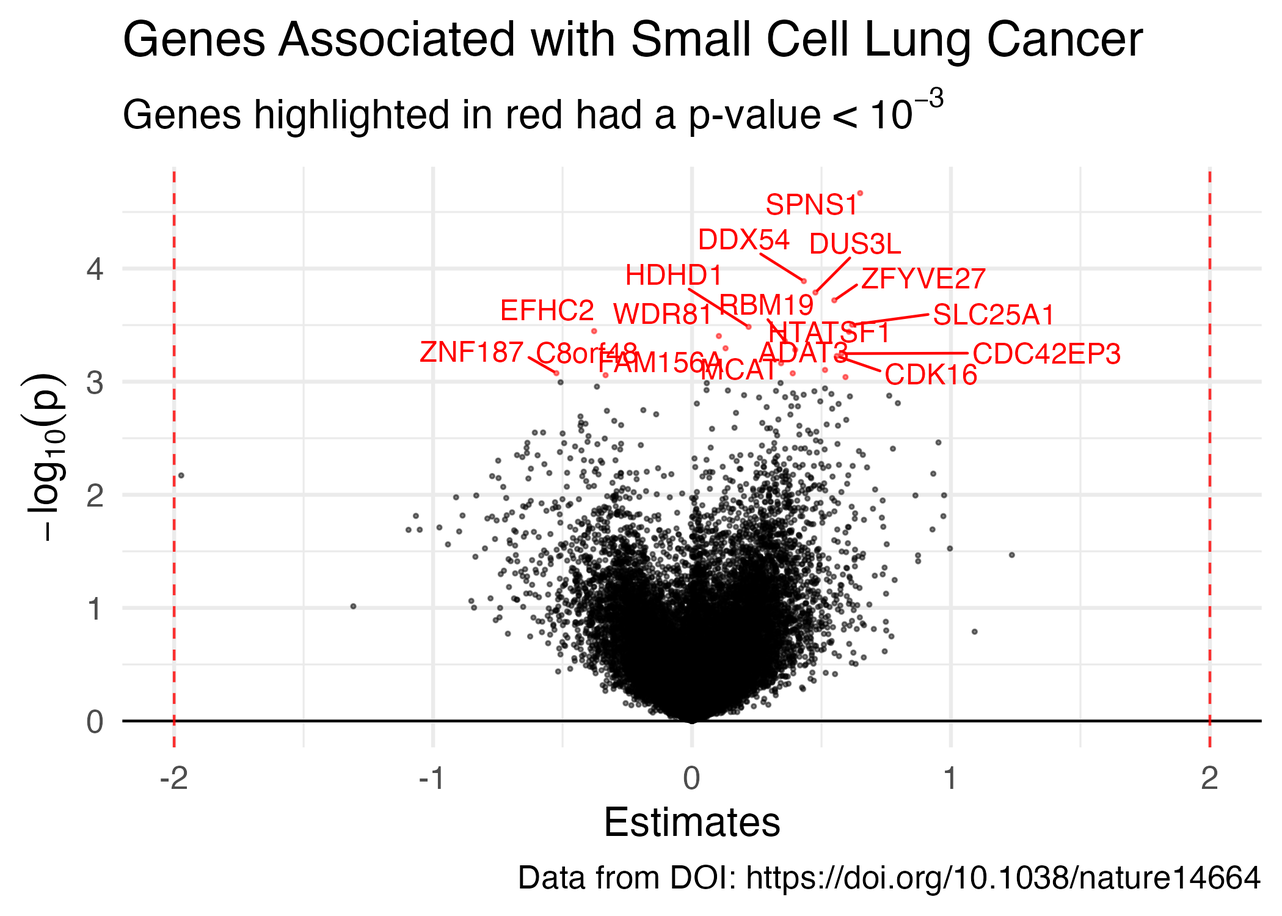
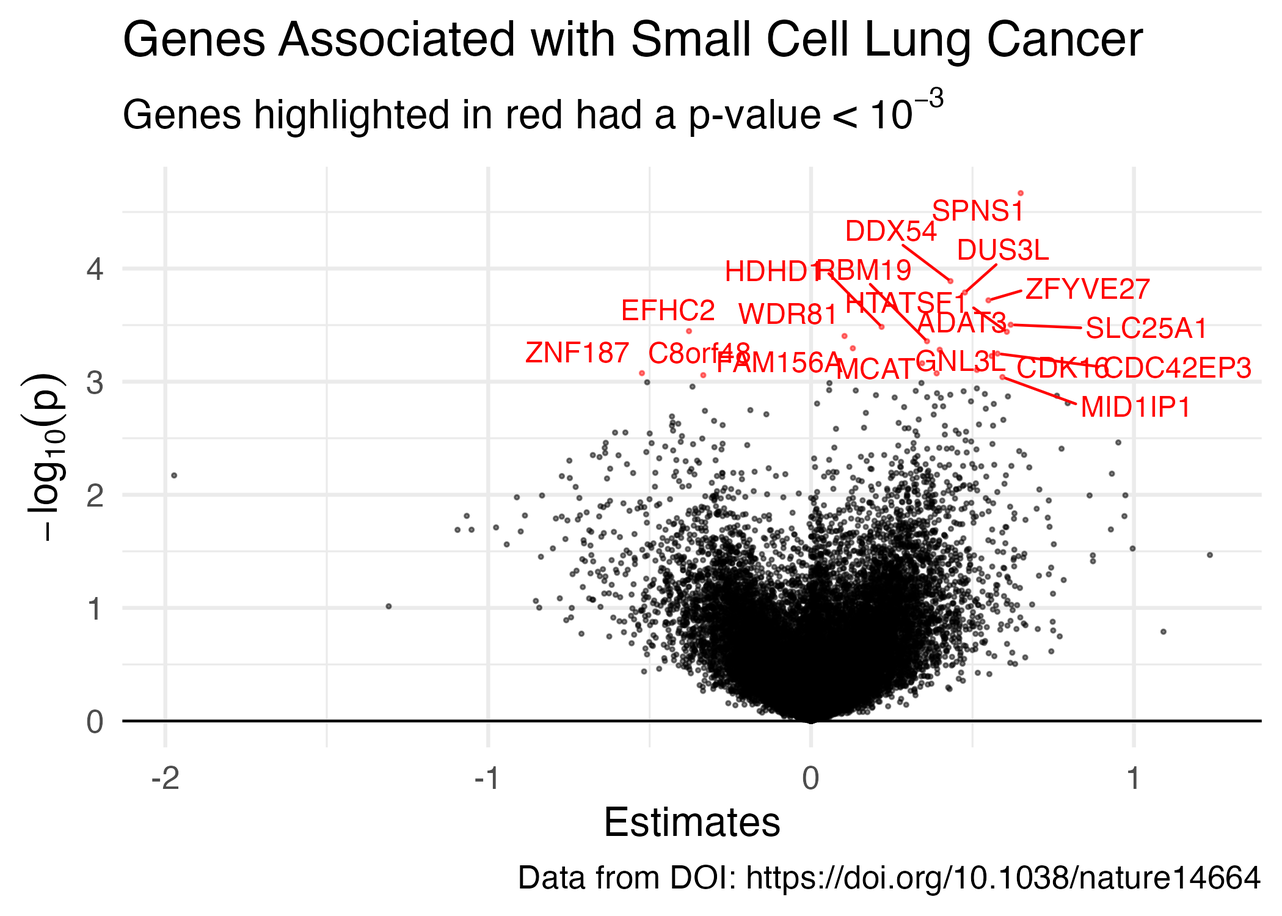
results: update rendering of 07 analysis

diff --git a/results/R/07_logistic_model.html b/results/R/07_logistic_model.html
@@ -130,7 +130,7 @@ pre > code.sourceCode > span > a:first-child::before { text-decoration: underlin
 <pre><code>here() starts at /Users/mikkelrasmussen/Library/CloudStorage/OneDrive-DanmarksTekniskeUniversitet/DTU/Bioinformatics_and_Systems_Biology/3_semester/22160 R for Bio Data Science/Project/group_13_project</code></pre>
 </div>
 <div class="sourceCode cell-code" id="cb5"><pre class="sourceCode r code-with-copy"><code class="sourceCode r"><span id="cb5-1"><a href="#cb5-1" aria-hidden="true" tabindex="-1"></a><span class="fu">library</span>(<span class="st">"broom"</span>)</span>
-<span id="cb5-2"><a href="#cb5-2" aria-hidden="true" tabindex="-1"></a><span class="fu">library</span>(<span class="st">"limma"</span>)</span></code><button title="Copy to Clipboard" class="code-copy-button"><i class="bi"></i></button></pre></div>
+<span id="cb5-2"><a href="#cb5-2" aria-hidden="true" tabindex="-1"></a><span class="fu">library</span>(<span class="st">"ggrepel"</span>)</span></code><button title="Copy to Clipboard" class="code-copy-button"><i class="bi"></i></button></pre></div>
 </div>
 </section>
 <section id="load-data" class="level2">
@@ -161,60 +161,63 @@ dbl (31644): age, survival_status, progression_free_survival_months, overall...
 <div class="cell">
 <div class="sourceCode cell-code" id="cb9"><pre class="sourceCode r code-with-copy"><code class="sourceCode r"><span id="cb9-1"><a href="#cb9-1" aria-hidden="true" tabindex="-1"></a><span class="co"># Extract the expression data</span></span>
 <span id="cb9-2"><a href="#cb9-2" aria-hidden="true" tabindex="-1"></a>expression_data <span class="ot">&lt;-</span> data <span class="sc">|&gt;</span></span>
-<span id="cb9-3"><a href="#cb9-3" aria-hidden="true" tabindex="-1"></a>  <span class="fu">select</span>(survival_status, <span class="dv">32</span><span class="sc">:</span><span class="fu">ncol</span>(data))</span>
-<span id="cb9-4"><a href="#cb9-4" aria-hidden="true" tabindex="-1"></a></span>
-<span id="cb9-5"><a href="#cb9-5" aria-hidden="true" tabindex="-1"></a><span class="co"># Log2 transform the FPKM expression data</span></span>
-<span id="cb9-6"><a href="#cb9-6" aria-hidden="true" tabindex="-1"></a>expr_log <span class="ot">&lt;-</span> expression_data <span class="sc">|&gt;</span></span>
-<span id="cb9-7"><a href="#cb9-7" aria-hidden="true" tabindex="-1"></a>  <span class="fu">mutate</span>(<span class="fu">across</span>(<span class="sc">-</span>survival_status, <span class="sc">~</span> <span class="fu">log2</span>(. <span class="sc">+</span> <span class="dv">1</span>)))</span></code><button title="Copy to Clipboard" class="code-copy-button"><i class="bi"></i></button></pre></div>
+<span id="cb9-3"><a href="#cb9-3" aria-hidden="true" tabindex="-1"></a>  <span class="fu">select</span>(sample_id, survival_status, <span class="dv">32</span><span class="sc">:</span><span class="fu">ncol</span>(data))</span></code><button title="Copy to Clipboard" class="code-copy-button"><i class="bi"></i></button></pre></div>
 </div>
 <div class="cell">
-<div class="sourceCode cell-code" id="cb10"><pre class="sourceCode r code-with-copy"><code class="sourceCode r"><span id="cb10-1"><a href="#cb10-1" aria-hidden="true" tabindex="-1"></a><span class="co"># Pivot longer</span></span>
-<span id="cb10-2"><a href="#cb10-2" aria-hidden="true" tabindex="-1"></a>expr_log_long <span class="ot">&lt;-</span> expr_log <span class="sc">|&gt;</span></span>
+<div class="sourceCode cell-code" id="cb10"><pre class="sourceCode r code-with-copy"><code class="sourceCode r"><span id="cb10-1"><a href="#cb10-1" aria-hidden="true" tabindex="-1"></a><span class="co"># Convert expression data into long format</span></span>
+<span id="cb10-2"><a href="#cb10-2" aria-hidden="true" tabindex="-1"></a>expr_long <span class="ot">&lt;-</span> expression_data <span class="sc">|&gt;</span></span>
 <span id="cb10-3"><a href="#cb10-3" aria-hidden="true" tabindex="-1"></a>  <span class="fu">pivot_longer</span>(</span>
-<span id="cb10-4"><a href="#cb10-4" aria-hidden="true" tabindex="-1"></a>    <span class="at">cols =</span> <span class="sc">-</span>survival_status,</span>
+<span id="cb10-4"><a href="#cb10-4" aria-hidden="true" tabindex="-1"></a>    <span class="at">cols =</span> <span class="sc">-</span><span class="fu">c</span>(sample_id, survival_status),</span>
 <span id="cb10-5"><a href="#cb10-5" aria-hidden="true" tabindex="-1"></a>    <span class="at">names_to =</span> <span class="st">"gene"</span>,</span>
-<span id="cb10-6"><a href="#cb10-6" aria-hidden="true" tabindex="-1"></a>    <span class="at">values_to =</span> <span class="st">"log2_expr_level"</span></span>
+<span id="cb10-6"><a href="#cb10-6" aria-hidden="true" tabindex="-1"></a>    <span class="at">values_to =</span> <span class="st">"expr_level"</span></span>
 <span id="cb10-7"><a href="#cb10-7" aria-hidden="true" tabindex="-1"></a>  )</span>
 <span id="cb10-8"><a href="#cb10-8" aria-hidden="true" tabindex="-1"></a></span>
-<span id="cb10-9"><a href="#cb10-9" aria-hidden="true" tabindex="-1"></a><span class="co"># Nest the data</span></span>
-<span id="cb10-10"><a href="#cb10-10" aria-hidden="true" tabindex="-1"></a>expr_log_long_nested <span class="ot">&lt;-</span> expr_log_long <span class="sc">|&gt;</span></span>
-<span id="cb10-11"><a href="#cb10-11" aria-hidden="true" tabindex="-1"></a>  <span class="fu">group_by</span>(gene) <span class="sc">|&gt;</span></span>
-<span id="cb10-12"><a href="#cb10-12" aria-hidden="true" tabindex="-1"></a>  <span class="fu">nest</span>() <span class="sc">|&gt;</span></span>
-<span id="cb10-13"><a href="#cb10-13" aria-hidden="true" tabindex="-1"></a>  <span class="fu">ungroup</span>()</span>
-<span id="cb10-14"><a href="#cb10-14" aria-hidden="true" tabindex="-1"></a></span>
-<span id="cb10-15"><a href="#cb10-15" aria-hidden="true" tabindex="-1"></a><span class="co"># Model each gene with a logistic regression model</span></span>
-<span id="cb10-16"><a href="#cb10-16" aria-hidden="true" tabindex="-1"></a>expr_log_long_nested <span class="ot">&lt;-</span> expr_log_long_nested <span class="sc">|&gt;</span></span>
-<span id="cb10-17"><a href="#cb10-17" aria-hidden="true" tabindex="-1"></a>  <span class="fu">group_by</span>(gene) <span class="sc">|&gt;</span></span>
-<span id="cb10-18"><a href="#cb10-18" aria-hidden="true" tabindex="-1"></a>  <span class="fu">mutate</span>(<span class="at">model_object =</span> <span class="fu">map</span>(</span>
-<span id="cb10-19"><a href="#cb10-19" aria-hidden="true" tabindex="-1"></a>    <span class="at">.x =</span> data,</span>
-<span id="cb10-20"><a href="#cb10-20" aria-hidden="true" tabindex="-1"></a>    <span class="at">.f =</span> <span class="sc">~</span> <span class="fu">lm</span>(</span>
-<span id="cb10-21"><a href="#cb10-21" aria-hidden="true" tabindex="-1"></a>      <span class="at">formula =</span> log2_expr_level <span class="sc">~</span> survival_status,</span>
-<span id="cb10-22"><a href="#cb10-22" aria-hidden="true" tabindex="-1"></a>      <span class="at">data =</span> .x</span>
-<span id="cb10-23"><a href="#cb10-23" aria-hidden="true" tabindex="-1"></a>    )</span>
-<span id="cb10-24"><a href="#cb10-24" aria-hidden="true" tabindex="-1"></a>  ))</span>
-<span id="cb10-25"><a href="#cb10-25" aria-hidden="true" tabindex="-1"></a></span>
-<span id="cb10-26"><a href="#cb10-26" aria-hidden="true" tabindex="-1"></a><span class="co"># Calculate confidence intervals</span></span>
-<span id="cb10-27"><a href="#cb10-27" aria-hidden="true" tabindex="-1"></a>expr_log_long_nested <span class="ot">&lt;-</span> expr_log_long_nested <span class="sc">|&gt;</span></span>
-<span id="cb10-28"><a href="#cb10-28" aria-hidden="true" tabindex="-1"></a>  <span class="fu">mutate</span>(<span class="at">model_object_tidy =</span> <span class="fu">map</span>(</span>
-<span id="cb10-29"><a href="#cb10-29" aria-hidden="true" tabindex="-1"></a>    <span class="at">.x =</span> model_object,</span>
-<span id="cb10-30"><a href="#cb10-30" aria-hidden="true" tabindex="-1"></a>    <span class="at">.f =</span> <span class="sc">~</span> <span class="fu">tidy</span>(</span>
-<span id="cb10-31"><a href="#cb10-31" aria-hidden="true" tabindex="-1"></a>      <span class="at">x =</span> .x,</span>
-<span id="cb10-32"><a href="#cb10-32" aria-hidden="true" tabindex="-1"></a>      <span class="at">conf.int =</span> <span class="cn">TRUE</span>,</span>
-<span id="cb10-33"><a href="#cb10-33" aria-hidden="true" tabindex="-1"></a>      <span class="at">conf.level =</span> <span class="fl">0.95</span></span>
-<span id="cb10-34"><a href="#cb10-34" aria-hidden="true" tabindex="-1"></a>    )</span>
-<span id="cb10-35"><a href="#cb10-35" aria-hidden="true" tabindex="-1"></a>  ))</span>
-<span id="cb10-36"><a href="#cb10-36" aria-hidden="true" tabindex="-1"></a></span>
-<span id="cb10-37"><a href="#cb10-37" aria-hidden="true" tabindex="-1"></a><span class="co"># Unnest</span></span>
-<span id="cb10-38"><a href="#cb10-38" aria-hidden="true" tabindex="-1"></a>expr_estimates <span class="ot">&lt;-</span> expr_log_long_nested <span class="sc">|&gt;</span></span>
-<span id="cb10-39"><a href="#cb10-39" aria-hidden="true" tabindex="-1"></a>  <span class="fu">unnest</span>(model_object_tidy) <span class="sc">|&gt;</span></span>
-<span id="cb10-40"><a href="#cb10-40" aria-hidden="true" tabindex="-1"></a>  <span class="fu">drop_na</span>(p.value)</span>
-<span id="cb10-41"><a href="#cb10-41" aria-hidden="true" tabindex="-1"></a></span>
-<span id="cb10-42"><a href="#cb10-42" aria-hidden="true" tabindex="-1"></a><span class="co">#</span></span>
-<span id="cb10-43"><a href="#cb10-43" aria-hidden="true" tabindex="-1"></a>expr_estimates <span class="ot">&lt;-</span> expr_estimates <span class="sc">|&gt;</span></span>
-<span id="cb10-44"><a href="#cb10-44" aria-hidden="true" tabindex="-1"></a>  <span class="fu">filter</span>(term <span class="sc">==</span> <span class="st">"survival_status"</span>) <span class="sc">|&gt;</span></span>
-<span id="cb10-45"><a href="#cb10-45" aria-hidden="true" tabindex="-1"></a>  <span class="fu">select</span>(gene, p.value, estimate, conf.low, conf.high) <span class="sc">|&gt;</span></span>
-<span id="cb10-46"><a href="#cb10-46" aria-hidden="true" tabindex="-1"></a>  <span class="fu">ungroup</span>()</span>
-<span id="cb10-47"><a href="#cb10-47" aria-hidden="true" tabindex="-1"></a>expr_estimates</span></code><button title="Copy to Clipboard" class="code-copy-button"><i class="bi"></i></button></pre></div>
+<span id="cb10-9"><a href="#cb10-9" aria-hidden="true" tabindex="-1"></a><span class="co"># Log2 transform data</span></span>
+<span id="cb10-10"><a href="#cb10-10" aria-hidden="true" tabindex="-1"></a>expr_log_long <span class="ot">&lt;-</span> expr_long <span class="sc">|&gt;</span></span>
+<span id="cb10-11"><a href="#cb10-11" aria-hidden="true" tabindex="-1"></a>  <span class="fu">mutate</span>(</span>
+<span id="cb10-12"><a href="#cb10-12" aria-hidden="true" tabindex="-1"></a>    <span class="at">log2_expr_level =</span> <span class="fu">log2</span>(expr_level <span class="sc">+</span> <span class="dv">1</span>)</span>
+<span id="cb10-13"><a href="#cb10-13" aria-hidden="true" tabindex="-1"></a>  )</span></code><button title="Copy to Clipboard" class="code-copy-button"><i class="bi"></i></button></pre></div>
+</div>
+<div class="cell">
+<div class="sourceCode cell-code" id="cb11"><pre class="sourceCode r code-with-copy"><code class="sourceCode r"><span id="cb11-1"><a href="#cb11-1" aria-hidden="true" tabindex="-1"></a><span class="co"># Nest the data</span></span>
+<span id="cb11-2"><a href="#cb11-2" aria-hidden="true" tabindex="-1"></a>expr_log_long_nested <span class="ot">&lt;-</span> expr_log_long <span class="sc">|&gt;</span></span>
+<span id="cb11-3"><a href="#cb11-3" aria-hidden="true" tabindex="-1"></a>  <span class="fu">group_by</span>(gene) <span class="sc">|&gt;</span></span>
+<span id="cb11-4"><a href="#cb11-4" aria-hidden="true" tabindex="-1"></a>  <span class="fu">nest</span>() <span class="sc">|&gt;</span></span>
+<span id="cb11-5"><a href="#cb11-5" aria-hidden="true" tabindex="-1"></a>  <span class="fu">ungroup</span>()</span>
+<span id="cb11-6"><a href="#cb11-6" aria-hidden="true" tabindex="-1"></a></span>
+<span id="cb11-7"><a href="#cb11-7" aria-hidden="true" tabindex="-1"></a><span class="co"># Model each gene with a logistic regression model</span></span>
+<span id="cb11-8"><a href="#cb11-8" aria-hidden="true" tabindex="-1"></a>expr_log_long_nested <span class="ot">&lt;-</span> expr_log_long_nested <span class="sc">|&gt;</span></span>
+<span id="cb11-9"><a href="#cb11-9" aria-hidden="true" tabindex="-1"></a>  <span class="fu">group_by</span>(gene) <span class="sc">|&gt;</span></span>
+<span id="cb11-10"><a href="#cb11-10" aria-hidden="true" tabindex="-1"></a>  <span class="fu">mutate</span>(<span class="at">model_object =</span> <span class="fu">map</span>(</span>
+<span id="cb11-11"><a href="#cb11-11" aria-hidden="true" tabindex="-1"></a>    <span class="at">.x =</span> data,</span>
+<span id="cb11-12"><a href="#cb11-12" aria-hidden="true" tabindex="-1"></a>    <span class="at">.f =</span> <span class="sc">~</span> <span class="fu">lm</span>(</span>
+<span id="cb11-13"><a href="#cb11-13" aria-hidden="true" tabindex="-1"></a>      <span class="at">formula =</span> log2_expr_level <span class="sc">~</span> survival_status,</span>
+<span id="cb11-14"><a href="#cb11-14" aria-hidden="true" tabindex="-1"></a>      <span class="at">data =</span> .x</span>
+<span id="cb11-15"><a href="#cb11-15" aria-hidden="true" tabindex="-1"></a>    )</span>
+<span id="cb11-16"><a href="#cb11-16" aria-hidden="true" tabindex="-1"></a>  ))</span>
+<span id="cb11-17"><a href="#cb11-17" aria-hidden="true" tabindex="-1"></a></span>
+<span id="cb11-18"><a href="#cb11-18" aria-hidden="true" tabindex="-1"></a><span class="co"># Calculate confidence intervals</span></span>
+<span id="cb11-19"><a href="#cb11-19" aria-hidden="true" tabindex="-1"></a>expr_log_long_nested <span class="ot">&lt;-</span> expr_log_long_nested <span class="sc">|&gt;</span></span>
+<span id="cb11-20"><a href="#cb11-20" aria-hidden="true" tabindex="-1"></a>  <span class="fu">mutate</span>(<span class="at">model_object_tidy =</span> <span class="fu">map</span>(</span>
+<span id="cb11-21"><a href="#cb11-21" aria-hidden="true" tabindex="-1"></a>    <span class="at">.x =</span> model_object,</span>
+<span id="cb11-22"><a href="#cb11-22" aria-hidden="true" tabindex="-1"></a>    <span class="at">.f =</span> <span class="sc">~</span> <span class="fu">tidy</span>(</span>
+<span id="cb11-23"><a href="#cb11-23" aria-hidden="true" tabindex="-1"></a>      <span class="at">x =</span> .x,</span>
+<span id="cb11-24"><a href="#cb11-24" aria-hidden="true" tabindex="-1"></a>      <span class="at">conf.int =</span> <span class="cn">TRUE</span>,</span>
+<span id="cb11-25"><a href="#cb11-25" aria-hidden="true" tabindex="-1"></a>      <span class="at">conf.level =</span> <span class="fl">0.95</span></span>
+<span id="cb11-26"><a href="#cb11-26" aria-hidden="true" tabindex="-1"></a>    )</span>
+<span id="cb11-27"><a href="#cb11-27" aria-hidden="true" tabindex="-1"></a>  ))</span>
+<span id="cb11-28"><a href="#cb11-28" aria-hidden="true" tabindex="-1"></a></span>
+<span id="cb11-29"><a href="#cb11-29" aria-hidden="true" tabindex="-1"></a><span class="co"># Unnest the data</span></span>
+<span id="cb11-30"><a href="#cb11-30" aria-hidden="true" tabindex="-1"></a>expr_estimates <span class="ot">&lt;-</span> expr_log_long_nested <span class="sc">|&gt;</span></span>
+<span id="cb11-31"><a href="#cb11-31" aria-hidden="true" tabindex="-1"></a>  <span class="fu">unnest</span>(model_object_tidy) <span class="sc">|&gt;</span></span>
+<span id="cb11-32"><a href="#cb11-32" aria-hidden="true" tabindex="-1"></a>  <span class="fu">drop_na</span>(p.value)</span>
+<span id="cb11-33"><a href="#cb11-33" aria-hidden="true" tabindex="-1"></a></span>
+<span id="cb11-34"><a href="#cb11-34" aria-hidden="true" tabindex="-1"></a><span class="co"># Extract columns of</span></span>
+<span id="cb11-35"><a href="#cb11-35" aria-hidden="true" tabindex="-1"></a>expr_estimates <span class="ot">&lt;-</span> expr_estimates <span class="sc">|&gt;</span></span>
+<span id="cb11-36"><a href="#cb11-36" aria-hidden="true" tabindex="-1"></a>  <span class="fu">filter</span>(term <span class="sc">==</span> <span class="st">"survival_status"</span>) <span class="sc">|&gt;</span></span>
+<span id="cb11-37"><a href="#cb11-37" aria-hidden="true" tabindex="-1"></a>  <span class="fu">select</span>(gene, p.value, estimate, conf.low, conf.high) <span class="sc">|&gt;</span></span>
+<span id="cb11-38"><a href="#cb11-38" aria-hidden="true" tabindex="-1"></a>  <span class="fu">ungroup</span>()</span>
+<span id="cb11-39"><a href="#cb11-39" aria-hidden="true" tabindex="-1"></a>expr_estimates</span></code><button title="Copy to Clipboard" class="code-copy-button"><i class="bi"></i></button></pre></div>
 <div class="cell-output cell-output-stdout">
 <pre><code># A tibble: 31,462 × 5
    gene               p.value estimate conf.low conf.high
@@ -231,87 +234,90 @@ dbl (31644): age, survival_status, progression_free_survival_months, overall...
 10 A4GALT_NM_017436     0.246  0.244   -0.172      0.659 
 # ℹ 31,452 more rows</code></pre>
 </div>
-<div class="sourceCode cell-code" id="cb12"><pre class="sourceCode r code-with-copy"><code class="sourceCode r"><span id="cb12-1"><a href="#cb12-1" aria-hidden="true" tabindex="-1"></a>expr_estimates <span class="ot">&lt;-</span> expr_estimates <span class="sc">|&gt;</span></span>
-<span id="cb12-2"><a href="#cb12-2" aria-hidden="true" tabindex="-1"></a>  <span class="fu">mutate</span>(</span>
-<span id="cb12-3"><a href="#cb12-3" aria-hidden="true" tabindex="-1"></a>    <span class="co"># q.value = p.adjust(p.value),</span></span>
-<span id="cb12-4"><a href="#cb12-4" aria-hidden="true" tabindex="-1"></a>    <span class="at">is_significant =</span> <span class="fu">case_when</span>(</span>
-<span id="cb12-5"><a href="#cb12-5" aria-hidden="true" tabindex="-1"></a>      p.value <span class="sc">&lt;=</span> <span class="dv">10</span><span class="sc">^</span>(<span class="sc">-</span><span class="dv">3</span>) <span class="sc">~</span> <span class="st">"yes"</span>,</span>
-<span id="cb12-6"><a href="#cb12-6" aria-hidden="true" tabindex="-1"></a>      p.value <span class="sc">&gt;</span> <span class="dv">10</span><span class="sc">^</span>(<span class="sc">-</span><span class="dv">3</span>) <span class="sc">~</span> <span class="st">"no"</span></span>
-<span id="cb12-7"><a href="#cb12-7" aria-hidden="true" tabindex="-1"></a>    )</span>
-<span id="cb12-8"><a href="#cb12-8" aria-hidden="true" tabindex="-1"></a>  )</span>
-<span id="cb12-9"><a href="#cb12-9" aria-hidden="true" tabindex="-1"></a></span>
-<span id="cb12-10"><a href="#cb12-10" aria-hidden="true" tabindex="-1"></a>expr_estimates <span class="sc">|&gt;</span></span>
-<span id="cb12-11"><a href="#cb12-11" aria-hidden="true" tabindex="-1"></a>  <span class="fu">filter</span>(is_significant <span class="sc">==</span> <span class="st">"yes"</span>) <span class="sc">|&gt;</span></span>
-<span id="cb12-12"><a href="#cb12-12" aria-hidden="true" tabindex="-1"></a>  <span class="fu">select</span>(gene, p.value) <span class="sc">|&gt;</span></span>
-<span id="cb12-13"><a href="#cb12-13" aria-hidden="true" tabindex="-1"></a>  <span class="fu">View</span>()</span></code><button title="Copy to Clipboard" class="code-copy-button"><i class="bi"></i></button></pre></div>
+<div class="sourceCode cell-code" id="cb13"><pre class="sourceCode r code-with-copy"><code class="sourceCode r"><span id="cb13-1"><a href="#cb13-1" aria-hidden="true" tabindex="-1"></a>expr_estimates <span class="ot">&lt;-</span> expr_estimates <span class="sc">|&gt;</span></span>
+<span id="cb13-2"><a href="#cb13-2" aria-hidden="true" tabindex="-1"></a>  <span class="fu">mutate</span>(</span>
+<span id="cb13-3"><a href="#cb13-3" aria-hidden="true" tabindex="-1"></a>    <span class="at">q.value =</span> <span class="fu">p.adjust</span>(p.value),</span>
+<span id="cb13-4"><a href="#cb13-4" aria-hidden="true" tabindex="-1"></a>    <span class="at">is_significant =</span> <span class="fu">case_when</span>(</span>
+<span id="cb13-5"><a href="#cb13-5" aria-hidden="true" tabindex="-1"></a>      p.value <span class="sc">&lt;=</span> <span class="dv">10</span><span class="sc">^</span>(<span class="sc">-</span><span class="dv">3</span>) <span class="sc">~</span> <span class="st">"yes"</span>,</span>
+<span id="cb13-6"><a href="#cb13-6" aria-hidden="true" tabindex="-1"></a>      p.value <span class="sc">&gt;</span> <span class="dv">10</span><span class="sc">^</span>(<span class="sc">-</span><span class="dv">3</span>) <span class="sc">~</span> <span class="st">"no"</span></span>
+<span id="cb13-7"><a href="#cb13-7" aria-hidden="true" tabindex="-1"></a>    )</span>
+<span id="cb13-8"><a href="#cb13-8" aria-hidden="true" tabindex="-1"></a>  )</span>
+<span id="cb13-9"><a href="#cb13-9" aria-hidden="true" tabindex="-1"></a></span>
+<span id="cb13-10"><a href="#cb13-10" aria-hidden="true" tabindex="-1"></a>expr_estimates <span class="sc">|&gt;</span></span>
+<span id="cb13-11"><a href="#cb13-11" aria-hidden="true" tabindex="-1"></a>  <span class="fu">filter</span>(is_significant <span class="sc">==</span> <span class="st">"yes"</span>) <span class="sc">|&gt;</span></span>
+<span id="cb13-12"><a href="#cb13-12" aria-hidden="true" tabindex="-1"></a>  <span class="fu">select</span>(gene, p.value) <span class="sc">|&gt;</span></span>
+<span id="cb13-13"><a href="#cb13-13" aria-hidden="true" tabindex="-1"></a>  <span class="fu">View</span>()</span></code><button title="Copy to Clipboard" class="code-copy-button"><i class="bi"></i></button></pre></div>
 </div>
 <div class="cell">
-<div class="sourceCode cell-code" id="cb13"><pre class="sourceCode r code-with-copy"><code class="sourceCode r"><span id="cb13-1"><a href="#cb13-1" aria-hidden="true" tabindex="-1"></a>pl1 <span class="ot">&lt;-</span> expr_estimates <span class="sc">|&gt;</span></span>
-<span id="cb13-2"><a href="#cb13-2" aria-hidden="true" tabindex="-1"></a>  <span class="fu">filter</span>(is_significant <span class="sc">==</span> <span class="st">"yes"</span>) <span class="sc">|&gt;</span></span>
-<span id="cb13-3"><a href="#cb13-3" aria-hidden="true" tabindex="-1"></a>  <span class="fu">ggplot</span>(<span class="fu">aes</span>(</span>
-<span id="cb13-4"><a href="#cb13-4" aria-hidden="true" tabindex="-1"></a>    <span class="at">x =</span> estimate,</span>
-<span id="cb13-5"><a href="#cb13-5" aria-hidden="true" tabindex="-1"></a>    <span class="at">y =</span> <span class="fu">fct_reorder</span>(gene, estimate),</span>
-<span id="cb13-6"><a href="#cb13-6" aria-hidden="true" tabindex="-1"></a>    <span class="at">xmin =</span> conf.low,</span>
-<span id="cb13-7"><a href="#cb13-7" aria-hidden="true" tabindex="-1"></a>    <span class="at">xmax =</span> conf.high</span>
-<span id="cb13-8"><a href="#cb13-8" aria-hidden="true" tabindex="-1"></a>  )) <span class="sc">+</span></span>
-<span id="cb13-9"><a href="#cb13-9" aria-hidden="true" tabindex="-1"></a>  <span class="fu">geom_vline</span>(<span class="at">xintercept =</span> <span class="dv">0</span>) <span class="sc">+</span></span>
-<span id="cb13-10"><a href="#cb13-10" aria-hidden="true" tabindex="-1"></a>  <span class="fu">geom_errorbarh</span>() <span class="sc">+</span></span>
-<span id="cb13-11"><a href="#cb13-11" aria-hidden="true" tabindex="-1"></a>  <span class="fu">geom_point</span>() <span class="sc">+</span></span>
-<span id="cb13-12"><a href="#cb13-12" aria-hidden="true" tabindex="-1"></a>  <span class="fu">theme_minimal</span>(<span class="at">base_size =</span> <span class="dv">16</span>) <span class="sc">+</span></span>
-<span id="cb13-13"><a href="#cb13-13" aria-hidden="true" tabindex="-1"></a>  <span class="fu">labs</span>(</span>
-<span id="cb13-14"><a href="#cb13-14" aria-hidden="true" tabindex="-1"></a>    <span class="at">x =</span> <span class="st">"Estimates (95%CIs)"</span>,</span>
-<span id="cb13-15"><a href="#cb13-15" aria-hidden="true" tabindex="-1"></a>    <span class="at">y =</span> <span class="st">""</span>,</span>
-<span id="cb13-16"><a href="#cb13-16" aria-hidden="true" tabindex="-1"></a>    <span class="at">title =</span> <span class="st">"Genes Associated with Small Cell Lung Cancer"</span>,</span>
-<span id="cb13-17"><a href="#cb13-17" aria-hidden="true" tabindex="-1"></a>    <span class="at">caption =</span> <span class="st">"Data from DOI:https://doi.org/10.1038/nature14664"</span></span>
-<span id="cb13-18"><a href="#cb13-18" aria-hidden="true" tabindex="-1"></a>  )</span>
-<span id="cb13-19"><a href="#cb13-19" aria-hidden="true" tabindex="-1"></a>pl1</span></code><button title="Copy to Clipboard" class="code-copy-button"><i class="bi"></i></button></pre></div>
+<div class="sourceCode cell-code" id="cb14"><pre class="sourceCode r code-with-copy"><code class="sourceCode r"><span id="cb14-1"><a href="#cb14-1" aria-hidden="true" tabindex="-1"></a>pl1 <span class="ot">&lt;-</span> expr_estimates <span class="sc">|&gt;</span></span>
+<span id="cb14-2"><a href="#cb14-2" aria-hidden="true" tabindex="-1"></a>  <span class="fu">filter</span>(is_significant <span class="sc">==</span> <span class="st">"yes"</span>) <span class="sc">|&gt;</span></span>
+<span id="cb14-3"><a href="#cb14-3" aria-hidden="true" tabindex="-1"></a>  <span class="fu">mutate</span>(</span>
+<span id="cb14-4"><a href="#cb14-4" aria-hidden="true" tabindex="-1"></a>    <span class="at">gene =</span> <span class="fu">str_remove_all</span>(gene, <span class="st">"_NM_.*"</span>)</span>
+<span id="cb14-5"><a href="#cb14-5" aria-hidden="true" tabindex="-1"></a>  ) <span class="sc">|&gt;</span></span>
+<span id="cb14-6"><a href="#cb14-6" aria-hidden="true" tabindex="-1"></a>  <span class="fu">ggplot</span>(<span class="fu">aes</span>(</span>
+<span id="cb14-7"><a href="#cb14-7" aria-hidden="true" tabindex="-1"></a>    <span class="at">x =</span> estimate,</span>
+<span id="cb14-8"><a href="#cb14-8" aria-hidden="true" tabindex="-1"></a>    <span class="at">y =</span> <span class="fu">fct_reorder</span>(gene, estimate),</span>
+<span id="cb14-9"><a href="#cb14-9" aria-hidden="true" tabindex="-1"></a>    <span class="at">xmin =</span> conf.low,</span>
+<span id="cb14-10"><a href="#cb14-10" aria-hidden="true" tabindex="-1"></a>    <span class="at">xmax =</span> conf.high</span>
+<span id="cb14-11"><a href="#cb14-11" aria-hidden="true" tabindex="-1"></a>  )) <span class="sc">+</span></span>
+<span id="cb14-12"><a href="#cb14-12" aria-hidden="true" tabindex="-1"></a>  <span class="fu">geom_vline</span>(<span class="at">xintercept =</span> <span class="dv">0</span>) <span class="sc">+</span></span>
+<span id="cb14-13"><a href="#cb14-13" aria-hidden="true" tabindex="-1"></a>  <span class="fu">geom_errorbarh</span>() <span class="sc">+</span></span>
+<span id="cb14-14"><a href="#cb14-14" aria-hidden="true" tabindex="-1"></a>  <span class="fu">geom_point</span>() <span class="sc">+</span></span>
+<span id="cb14-15"><a href="#cb14-15" aria-hidden="true" tabindex="-1"></a>  <span class="fu">theme_minimal</span>(<span class="at">base_size =</span> <span class="dv">16</span>) <span class="sc">+</span></span>
+<span id="cb14-16"><a href="#cb14-16" aria-hidden="true" tabindex="-1"></a>  <span class="fu">labs</span>(</span>
+<span id="cb14-17"><a href="#cb14-17" aria-hidden="true" tabindex="-1"></a>    <span class="at">x =</span> <span class="st">"Estimates (95%CIs)"</span>,</span>
+<span id="cb14-18"><a href="#cb14-18" aria-hidden="true" tabindex="-1"></a>    <span class="at">y =</span> <span class="st">""</span>,</span>
+<span id="cb14-19"><a href="#cb14-19" aria-hidden="true" tabindex="-1"></a>    <span class="at">title =</span> <span class="st">"Genes Associated with Small Cell Lung Cancer"</span>,</span>
+<span id="cb14-20"><a href="#cb14-20" aria-hidden="true" tabindex="-1"></a>    <span class="at">caption =</span> <span class="st">"Data from DOI:https://doi.org/10.1038/nature14664"</span></span>
+<span id="cb14-21"><a href="#cb14-21" aria-hidden="true" tabindex="-1"></a>  )</span>
+<span id="cb14-22"><a href="#cb14-22" aria-hidden="true" tabindex="-1"></a>pl1</span></code><button title="Copy to Clipboard" class="code-copy-button"><i class="bi"></i></button></pre></div>
 <div class="cell-output-display">
-<p><img src="07_logistic_model_files/figure-html/unnamed-chunk-6-1.png" class="img-fluid" width="672"></p>
+<p><img src="07_logistic_model_files/figure-html/unnamed-chunk-7-1.png" class="img-fluid" width="672"></p>
 </div>
-<div class="sourceCode cell-code" id="cb14"><pre class="sourceCode r code-with-copy"><code class="sourceCode r"><span id="cb14-1"><a href="#cb14-1" aria-hidden="true" tabindex="-1"></a><span class="fu">ggsave</span>(<span class="fu">here</span>(<span class="st">"results/07_associated_genes_CI.png"</span>), pl1)</span></code><button title="Copy to Clipboard" class="code-copy-button"><i class="bi"></i></button></pre></div>
+<div class="sourceCode cell-code" id="cb15"><pre class="sourceCode r code-with-copy"><code class="sourceCode r"><span id="cb15-1"><a href="#cb15-1" aria-hidden="true" tabindex="-1"></a><span class="fu">ggsave</span>(<span class="fu">here</span>(<span class="st">"results/07_associated_genes_CI.png"</span>), pl1)</span></code><button title="Copy to Clipboard" class="code-copy-button"><i class="bi"></i></button></pre></div>
 <div class="cell-output cell-output-stderr">
 <pre><code>Saving 7 x 5 in image</code></pre>
 </div>
-<div class="sourceCode cell-code" id="cb16"><pre class="sourceCode r code-with-copy"><code class="sourceCode r"><span id="cb16-1"><a href="#cb16-1" aria-hidden="true" tabindex="-1"></a><span class="fu">library</span>(<span class="st">"ggrepel"</span>)</span>
-<span id="cb16-2"><a href="#cb16-2" aria-hidden="true" tabindex="-1"></a>pl2 <span class="ot">&lt;-</span> expr_estimates <span class="sc">|&gt;</span></span>
-<span id="cb16-3"><a href="#cb16-3" aria-hidden="true" tabindex="-1"></a>  <span class="fu">mutate</span>(</span>
-<span id="cb16-4"><a href="#cb16-4" aria-hidden="true" tabindex="-1"></a>    <span class="at">gene =</span> <span class="fu">str_remove_all</span>(gene, <span class="st">"_NM_.*"</span>),</span>
-<span id="cb16-5"><a href="#cb16-5" aria-hidden="true" tabindex="-1"></a>    <span class="at">lbl =</span> <span class="fu">case_when</span>(</span>
-<span id="cb16-6"><a href="#cb16-6" aria-hidden="true" tabindex="-1"></a>      is_significant <span class="sc">==</span> <span class="st">"yes"</span> <span class="sc">~</span> gene,</span>
-<span id="cb16-7"><a href="#cb16-7" aria-hidden="true" tabindex="-1"></a>      is_significant <span class="sc">==</span> <span class="st">"no"</span> <span class="sc">~</span> <span class="st">""</span></span>
-<span id="cb16-8"><a href="#cb16-8" aria-hidden="true" tabindex="-1"></a>    )</span>
-<span id="cb16-9"><a href="#cb16-9" aria-hidden="true" tabindex="-1"></a>  ) <span class="sc">|&gt;</span></span>
-<span id="cb16-10"><a href="#cb16-10" aria-hidden="true" tabindex="-1"></a>  <span class="fu">ggplot</span>(<span class="fu">aes</span>(</span>
-<span id="cb16-11"><a href="#cb16-11" aria-hidden="true" tabindex="-1"></a>    <span class="at">x =</span> estimate,</span>
-<span id="cb16-12"><a href="#cb16-12" aria-hidden="true" tabindex="-1"></a>    <span class="at">y =</span> <span class="sc">-</span><span class="fu">log10</span>(p.value),</span>
-<span id="cb16-13"><a href="#cb16-13" aria-hidden="true" tabindex="-1"></a>    <span class="at">colour =</span> is_significant,</span>
-<span id="cb16-14"><a href="#cb16-14" aria-hidden="true" tabindex="-1"></a>    <span class="at">label =</span> lbl</span>
-<span id="cb16-15"><a href="#cb16-15" aria-hidden="true" tabindex="-1"></a>  )) <span class="sc">+</span></span>
-<span id="cb16-16"><a href="#cb16-16" aria-hidden="true" tabindex="-1"></a>  <span class="fu">geom_point</span>(</span>
-<span id="cb16-17"><a href="#cb16-17" aria-hidden="true" tabindex="-1"></a>    <span class="at">size =</span> <span class="dv">1</span>,</span>
-<span id="cb16-18"><a href="#cb16-18" aria-hidden="true" tabindex="-1"></a>    <span class="at">alpha =</span> <span class="fl">0.5</span></span>
-<span id="cb16-19"><a href="#cb16-19" aria-hidden="true" tabindex="-1"></a>  ) <span class="sc">+</span></span>
-<span id="cb16-20"><a href="#cb16-20" aria-hidden="true" tabindex="-1"></a>  <span class="fu">geom_text_repel</span>(</span>
-<span id="cb16-21"><a href="#cb16-21" aria-hidden="true" tabindex="-1"></a>    <span class="at">size =</span> <span class="dv">4</span>,</span>
-<span id="cb16-22"><a href="#cb16-22" aria-hidden="true" tabindex="-1"></a>    <span class="at">max.overlaps =</span> <span class="dv">20</span></span>
-<span id="cb16-23"><a href="#cb16-23" aria-hidden="true" tabindex="-1"></a>  ) <span class="sc">+</span></span>
-<span id="cb16-24"><a href="#cb16-24" aria-hidden="true" tabindex="-1"></a>  <span class="fu">geom_hline</span>(<span class="at">yintercept =</span> <span class="dv">0</span>) <span class="sc">+</span></span>
-<span id="cb16-25"><a href="#cb16-25" aria-hidden="true" tabindex="-1"></a>  <span class="fu">theme_minimal</span>(<span class="at">base_size =</span> <span class="dv">16</span>) <span class="sc">+</span></span>
-<span id="cb16-26"><a href="#cb16-26" aria-hidden="true" tabindex="-1"></a>  <span class="fu">theme</span>(</span>
-<span id="cb16-27"><a href="#cb16-27" aria-hidden="true" tabindex="-1"></a>    <span class="at">legend.position =</span> <span class="st">"none"</span></span>
-<span id="cb16-28"><a href="#cb16-28" aria-hidden="true" tabindex="-1"></a>  ) <span class="sc">+</span></span>
-<span id="cb16-29"><a href="#cb16-29" aria-hidden="true" tabindex="-1"></a>  <span class="fu">labs</span>(</span>
-<span id="cb16-30"><a href="#cb16-30" aria-hidden="true" tabindex="-1"></a>    <span class="at">x =</span> <span class="st">"Estimates"</span>,</span>
-<span id="cb16-31"><a href="#cb16-31" aria-hidden="true" tabindex="-1"></a>    <span class="at">y =</span> <span class="st">"-log10(p)"</span>,</span>
-<span id="cb16-32"><a href="#cb16-32" aria-hidden="true" tabindex="-1"></a>    <span class="at">title =</span> <span class="st">"Genes Associated with Small Cell Lung Cancer"</span>,</span>
-<span id="cb16-33"><a href="#cb16-33" aria-hidden="true" tabindex="-1"></a>    <span class="at">subtitle =</span> <span class="fu">bquote</span>(<span class="st">"Genes highlighted in turquoise had a p-value &lt; "</span> <span class="sc">*</span> <span class="dv">10</span><span class="sc">^-</span><span class="dv">3</span>),</span>
-<span id="cb16-34"><a href="#cb16-34" aria-hidden="true" tabindex="-1"></a>    <span class="at">caption =</span> <span class="st">"Data from DOI: https://doi.org/10.1038/nature14664"</span></span>
-<span id="cb16-35"><a href="#cb16-35" aria-hidden="true" tabindex="-1"></a>  )</span>
-<span id="cb16-36"><a href="#cb16-36" aria-hidden="true" tabindex="-1"></a>pl2</span></code><button title="Copy to Clipboard" class="code-copy-button"><i class="bi"></i></button></pre></div>
+<div class="sourceCode cell-code" id="cb17"><pre class="sourceCode r code-with-copy"><code class="sourceCode r"><span id="cb17-1"><a href="#cb17-1" aria-hidden="true" tabindex="-1"></a>pl2 <span class="ot">&lt;-</span> expr_estimates <span class="sc">|&gt;</span></span>
+<span id="cb17-2"><a href="#cb17-2" aria-hidden="true" tabindex="-1"></a>  <span class="fu">mutate</span>(</span>
+<span id="cb17-3"><a href="#cb17-3" aria-hidden="true" tabindex="-1"></a>    <span class="at">gene =</span> <span class="fu">str_remove_all</span>(gene, <span class="st">"_NM_.*"</span>),</span>
+<span id="cb17-4"><a href="#cb17-4" aria-hidden="true" tabindex="-1"></a>    <span class="at">lbl =</span> <span class="fu">case_when</span>(</span>
+<span id="cb17-5"><a href="#cb17-5" aria-hidden="true" tabindex="-1"></a>      is_significant <span class="sc">==</span> <span class="st">"yes"</span> <span class="sc">~</span> gene,</span>
+<span id="cb17-6"><a href="#cb17-6" aria-hidden="true" tabindex="-1"></a>      is_significant <span class="sc">==</span> <span class="st">"no"</span> <span class="sc">~</span> <span class="st">""</span></span>
+<span id="cb17-7"><a href="#cb17-7" aria-hidden="true" tabindex="-1"></a>    )</span>
+<span id="cb17-8"><a href="#cb17-8" aria-hidden="true" tabindex="-1"></a>  ) <span class="sc">|&gt;</span></span>
+<span id="cb17-9"><a href="#cb17-9" aria-hidden="true" tabindex="-1"></a>  <span class="fu">ggplot</span>(<span class="fu">aes</span>(</span>
+<span id="cb17-10"><a href="#cb17-10" aria-hidden="true" tabindex="-1"></a>    <span class="at">x =</span> estimate,</span>
+<span id="cb17-11"><a href="#cb17-11" aria-hidden="true" tabindex="-1"></a>    <span class="at">y =</span> <span class="sc">-</span><span class="fu">log10</span>(p.value),</span>
+<span id="cb17-12"><a href="#cb17-12" aria-hidden="true" tabindex="-1"></a>    <span class="at">colour =</span> is_significant,</span>
+<span id="cb17-13"><a href="#cb17-13" aria-hidden="true" tabindex="-1"></a>    <span class="at">label =</span> lbl</span>
+<span id="cb17-14"><a href="#cb17-14" aria-hidden="true" tabindex="-1"></a>  )) <span class="sc">+</span></span>
+<span id="cb17-15"><a href="#cb17-15" aria-hidden="true" tabindex="-1"></a>  <span class="fu">geom_point</span>(</span>
+<span id="cb17-16"><a href="#cb17-16" aria-hidden="true" tabindex="-1"></a>    <span class="at">size =</span> <span class="fl">0.5</span>,</span>
+<span id="cb17-17"><a href="#cb17-17" aria-hidden="true" tabindex="-1"></a>    <span class="at">alpha =</span> <span class="fl">0.5</span></span>
+<span id="cb17-18"><a href="#cb17-18" aria-hidden="true" tabindex="-1"></a>  ) <span class="sc">+</span></span>
+<span id="cb17-19"><a href="#cb17-19" aria-hidden="true" tabindex="-1"></a>  <span class="fu">geom_text_repel</span>(</span>
+<span id="cb17-20"><a href="#cb17-20" aria-hidden="true" tabindex="-1"></a>    <span class="at">size =</span> <span class="dv">4</span>,</span>
+<span id="cb17-21"><a href="#cb17-21" aria-hidden="true" tabindex="-1"></a>    <span class="at">max.overlaps =</span> <span class="dv">20</span></span>
+<span id="cb17-22"><a href="#cb17-22" aria-hidden="true" tabindex="-1"></a>  ) <span class="sc">+</span></span>
+<span id="cb17-23"><a href="#cb17-23" aria-hidden="true" tabindex="-1"></a>  <span class="fu">geom_hline</span>(<span class="at">yintercept =</span> <span class="dv">0</span>) <span class="sc">+</span></span>
+<span id="cb17-24"><a href="#cb17-24" aria-hidden="true" tabindex="-1"></a>  <span class="fu">theme_minimal</span>(<span class="at">base_size =</span> <span class="dv">16</span>) <span class="sc">+</span></span>
+<span id="cb17-25"><a href="#cb17-25" aria-hidden="true" tabindex="-1"></a>  <span class="fu">theme</span>(</span>
+<span id="cb17-26"><a href="#cb17-26" aria-hidden="true" tabindex="-1"></a>    <span class="at">legend.position =</span> <span class="st">"none"</span></span>
+<span id="cb17-27"><a href="#cb17-27" aria-hidden="true" tabindex="-1"></a>  ) <span class="sc">+</span></span>
+<span id="cb17-28"><a href="#cb17-28" aria-hidden="true" tabindex="-1"></a>  <span class="fu">labs</span>(</span>
+<span id="cb17-29"><a href="#cb17-29" aria-hidden="true" tabindex="-1"></a>    <span class="at">x =</span> <span class="st">"Estimates"</span>,</span>
+<span id="cb17-30"><a href="#cb17-30" aria-hidden="true" tabindex="-1"></a>    <span class="at">y =</span> <span class="fu">bquote</span>(<span class="sc">-</span>log[<span class="dv">10</span>](p)),</span>
+<span id="cb17-31"><a href="#cb17-31" aria-hidden="true" tabindex="-1"></a>    <span class="at">title =</span> <span class="st">"Genes Associated with Small Cell Lung Cancer"</span>,</span>
+<span id="cb17-32"><a href="#cb17-32" aria-hidden="true" tabindex="-1"></a>    <span class="at">subtitle =</span> <span class="fu">bquote</span>(<span class="st">"Genes highlighted in red had a p-value &lt; "</span> <span class="sc">*</span> <span class="dv">10</span><span class="sc">^-</span><span class="dv">3</span>),</span>
+<span id="cb17-33"><a href="#cb17-33" aria-hidden="true" tabindex="-1"></a>    <span class="at">caption =</span> <span class="st">"Data from DOI: https://doi.org/10.1038/nature14664"</span></span>
+<span id="cb17-34"><a href="#cb17-34" aria-hidden="true" tabindex="-1"></a>  ) <span class="sc">+</span></span>
+<span id="cb17-35"><a href="#cb17-35" aria-hidden="true" tabindex="-1"></a>  <span class="fu">scale_color_manual</span>(<span class="at">values =</span> <span class="fu">c</span>(<span class="st">"black"</span>, <span class="st">"red"</span>))</span>
+<span id="cb17-36"><a href="#cb17-36" aria-hidden="true" tabindex="-1"></a>pl2</span></code><button title="Copy to Clipboard" class="code-copy-button"><i class="bi"></i></button></pre></div>
 <div class="cell-output-display">
-<p><img src="07_logistic_model_files/figure-html/unnamed-chunk-6-2.png" class="img-fluid" width="672"></p>
+<p><img src="07_logistic_model_files/figure-html/unnamed-chunk-7-2.png" class="img-fluid" width="672"></p>
 </div>
-<div class="sourceCode cell-code" id="cb17"><pre class="sourceCode r code-with-copy"><code class="sourceCode r"><span id="cb17-1"><a href="#cb17-1" aria-hidden="true" tabindex="-1"></a><span class="fu">ggsave</span>(<span class="fu">here</span>(<span class="st">"results/07_associated_genes_vulcano_plot.png"</span>), pl2)</span></code><button title="Copy to Clipboard" class="code-copy-button"><i class="bi"></i></button></pre></div>
+<div class="sourceCode cell-code" id="cb18"><pre class="sourceCode r code-with-copy"><code class="sourceCode r"><span id="cb18-1"><a href="#cb18-1" aria-hidden="true" tabindex="-1"></a><span class="fu">ggsave</span>(<span class="fu">here</span>(<span class="st">"results/07_associated_genes_vulcano_plot.png"</span>), pl2)</span></code><button title="Copy to Clipboard" class="code-copy-button"><i class="bi"></i></button></pre></div>
 <div class="cell-output cell-output-stderr">
 <pre><code>Saving 7 x 5 in image</code></pre>
 </div>
